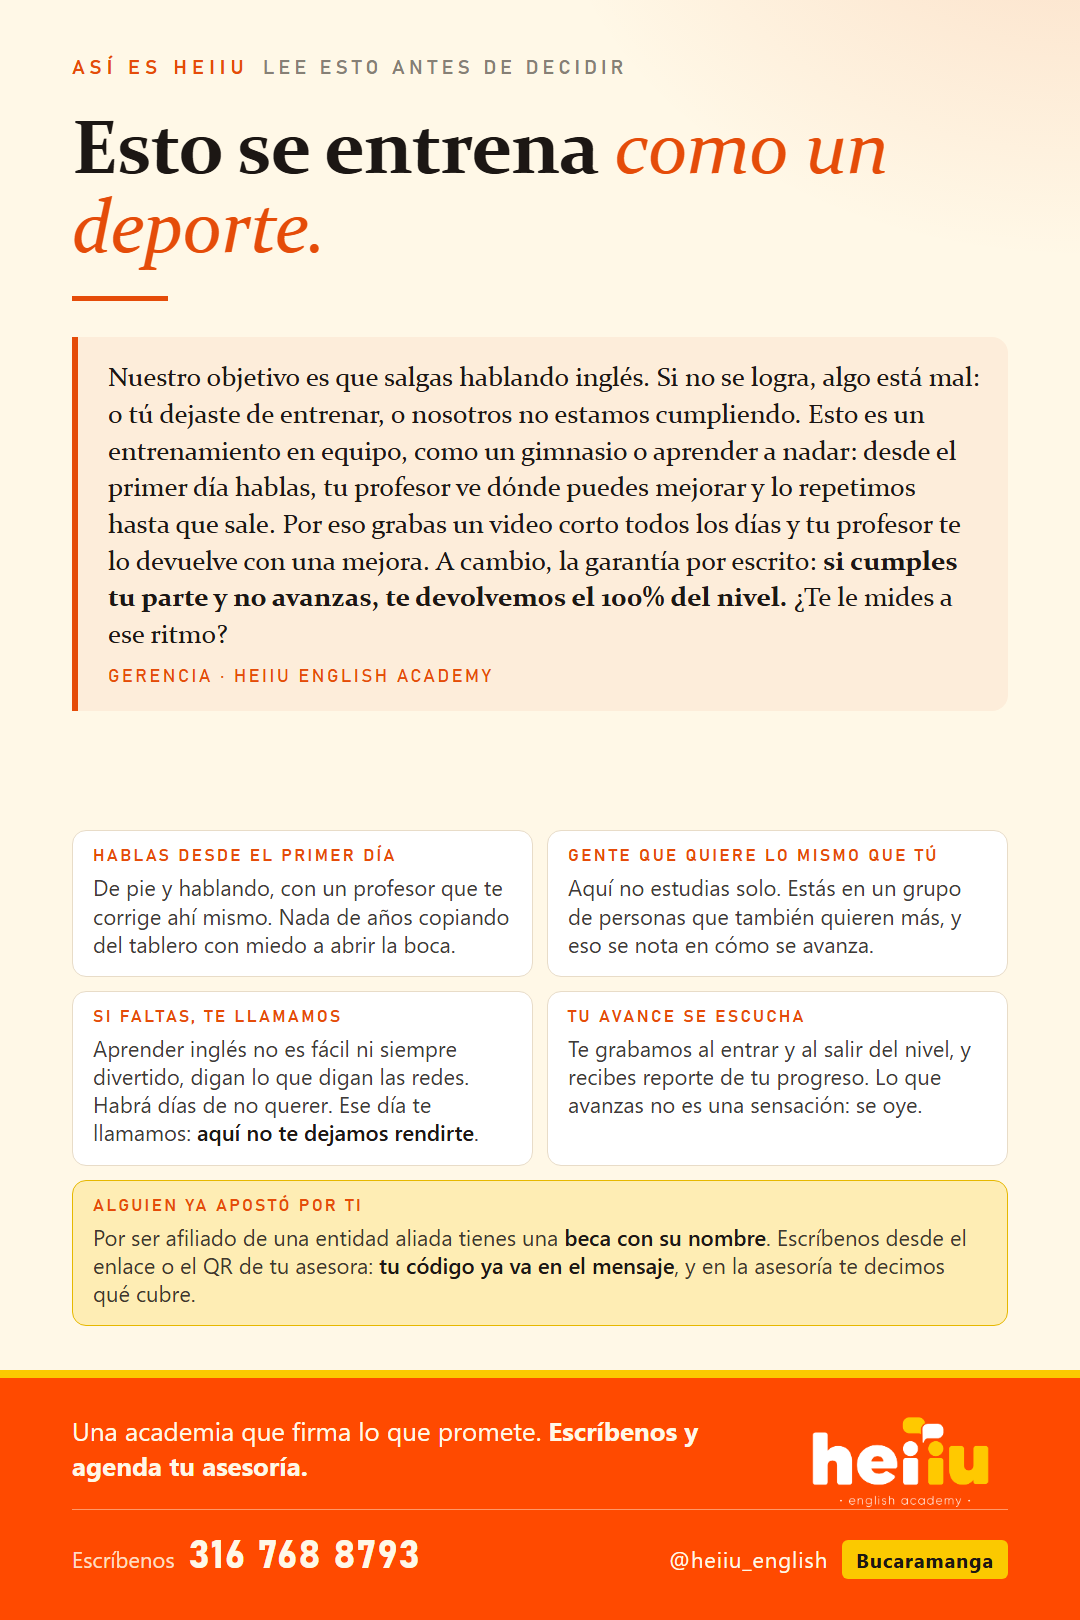
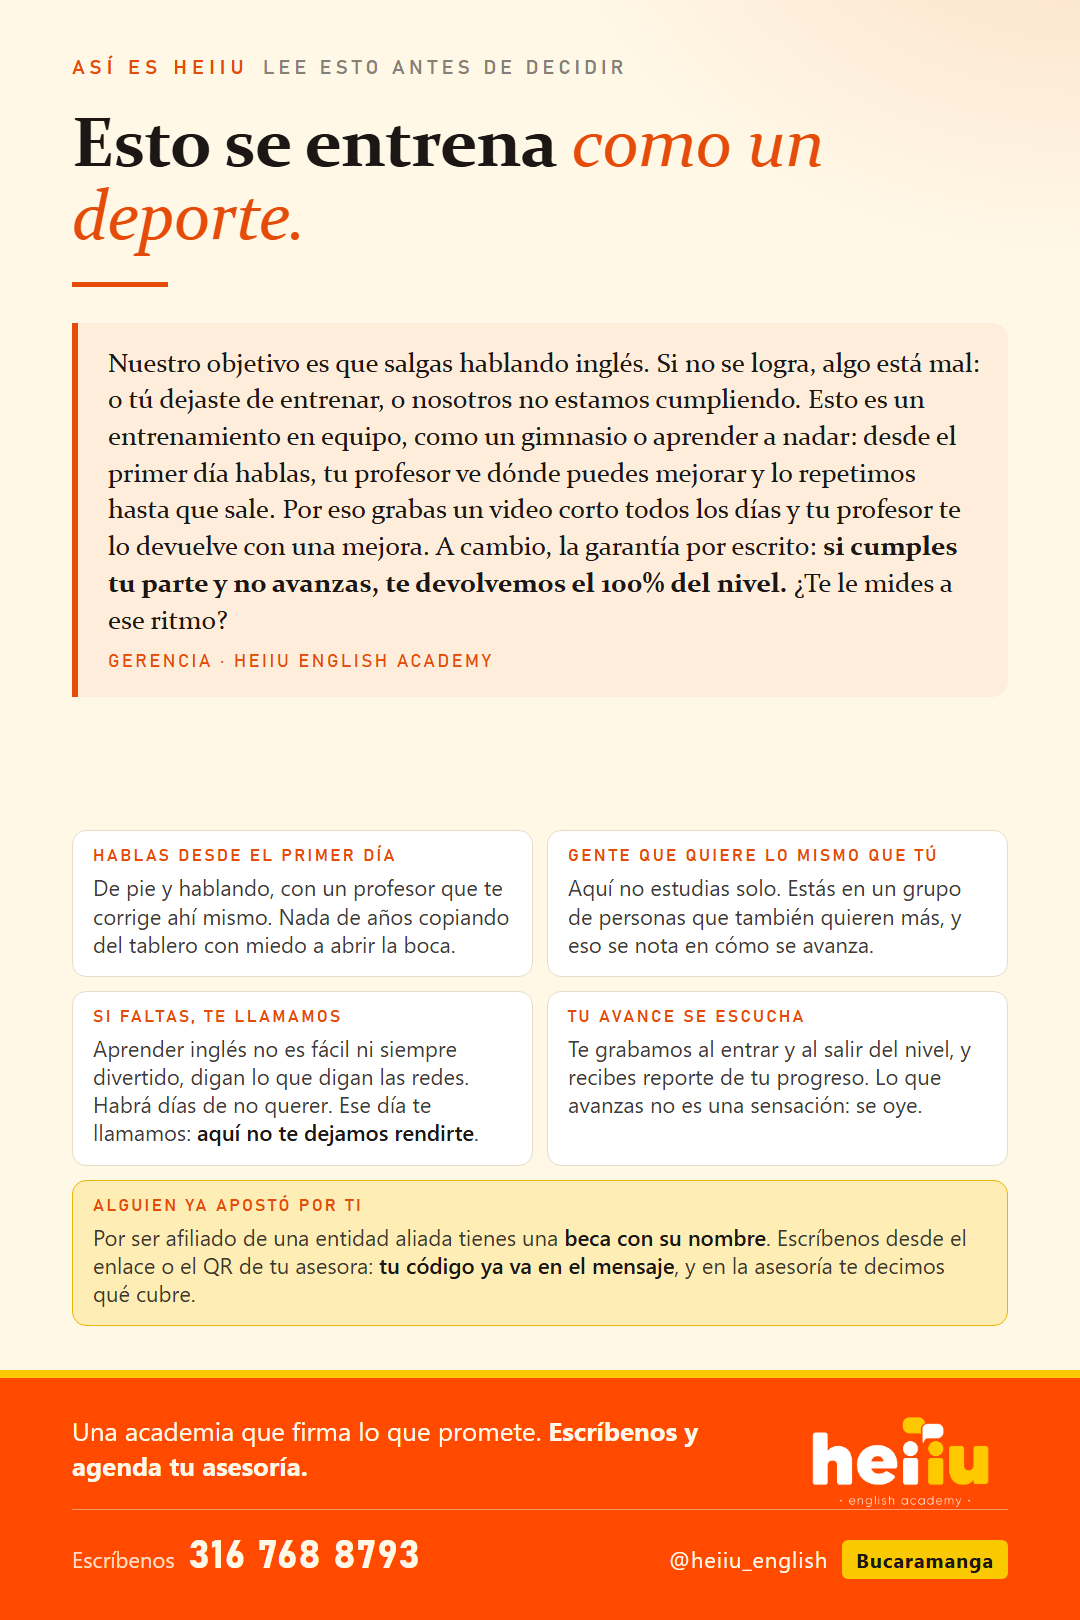
Pieza general frente: 'pero los mejores son para los que hablan ingles'; titular compacto para que la nota de fuentes quede visible

Changed region(s): [[0.0917, 0.216, 0.9167, 0.4321], [0.0611, 0.0617, 0.825, 0.1852], [0.2139, 0.4012, 0.4583, 0.4321]]

diff --git a/generadores/comercial/gen_piezas_conciencia.py b/generadores/comercial/gen_piezas_conciencia.py
@@ -102,7 +102,7 @@ PIEZAS = {
         band_px=340),
     'GENERAL_ASESORAS_FRENTE': dict(   # hoja que la asesora de la entidad aliada entrega o reenvia; cara 1: conciencia con cifras verificadas (fuentes al pie)
         compact=True, label='HEIIU ENGLISH ACADEMY', sub='BUCARAMANGA',
-        h1='Hoy ya ni sabemos cuál es el camino. <em>Pero todos los caminos pasan por el inglés.</em>',
+        h1='Hoy ya ni sabemos cuál es el camino. <em>Pero los mejores son para los que hablan inglés.</em>',
         st=[('<b>Ya ni la universidad asegura nada.</b> Hay carreras que cambian antes de terminarlas y títulos que las empresas ya no piden. El viaje, el ascenso, el trabajo afuera o tu negocio sí tienen algo en común: el inglés.'),
             ('<b>De cada 8 jóvenes que terminan el colegio en Colombia, solo 1 sale con un inglés que le sirva</b> para estudiar o trabajar. Los otros 7 lo tienen pendiente de adultos.¹'),
             ('<b>Quien certifica su inglés gana cerca de un 26% más</b> que quien hace el mismo trabajo sin él.²'),
@@ -190,7 +190,7 @@ blockquote { border-left-color: #E54C09; background: rgba(229,76,9,.06); color: 
 """
 
 COMPACT = """
-.top { padding-top: 56px; padding-bottom: 44px } h1 { font-size: 76px; margin-top: 28px } .rule { margin: 30px 0 26px 0 }
+.top { padding-top: 56px; padding-bottom: 44px } h1 { font-size: 70px; margin-top: 26px } .rule { margin: 30px 0 26px 0 }
 ol.st li { padding: 19px 0 17px 0 } ol.st p { font-size: 28px; line-height: 1.32 }
 .pivot { padding-top: 30px } .pivot .lead { font-size: 34px } .pivot .big { font-size: 52px; margin-top: 12px }
 .why { margin-top: 28px } .why h2 { font-size: 38px; margin-bottom: 14px } .why .grid { gap: 14px }
